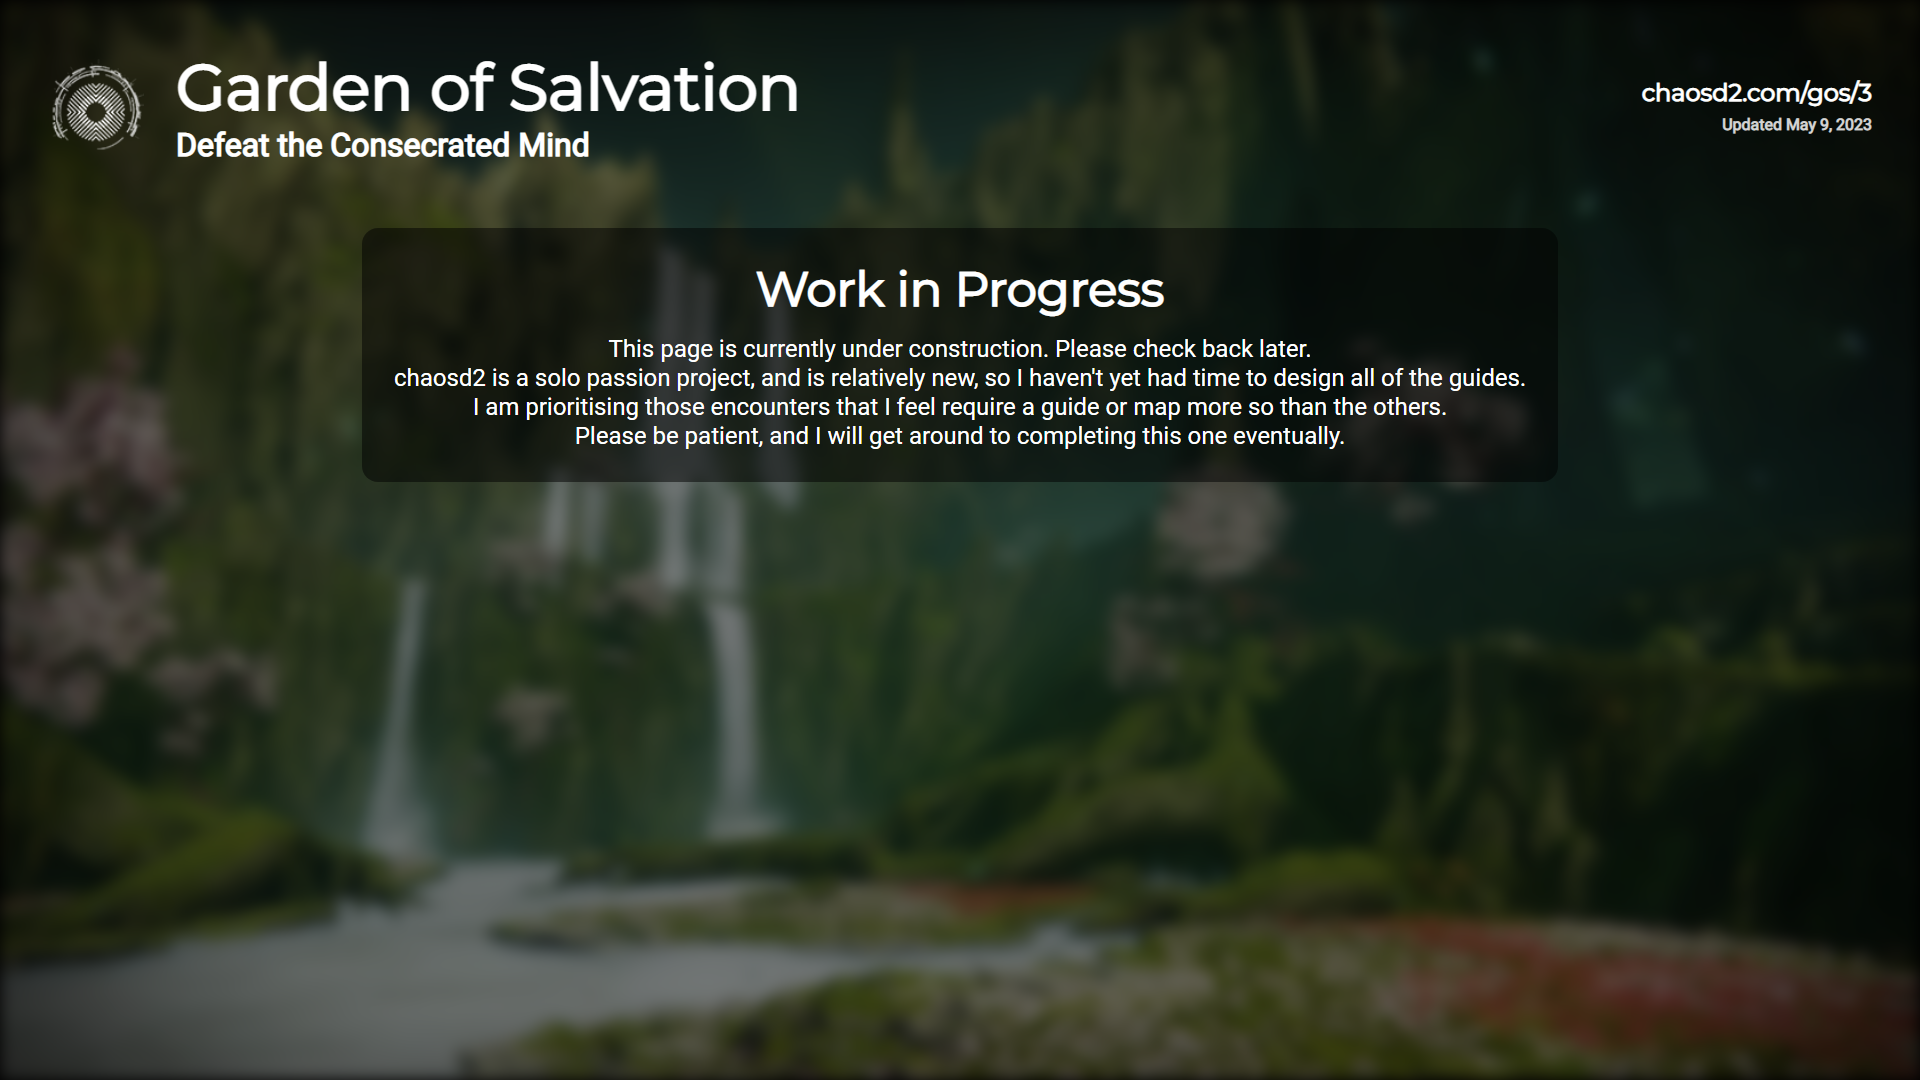
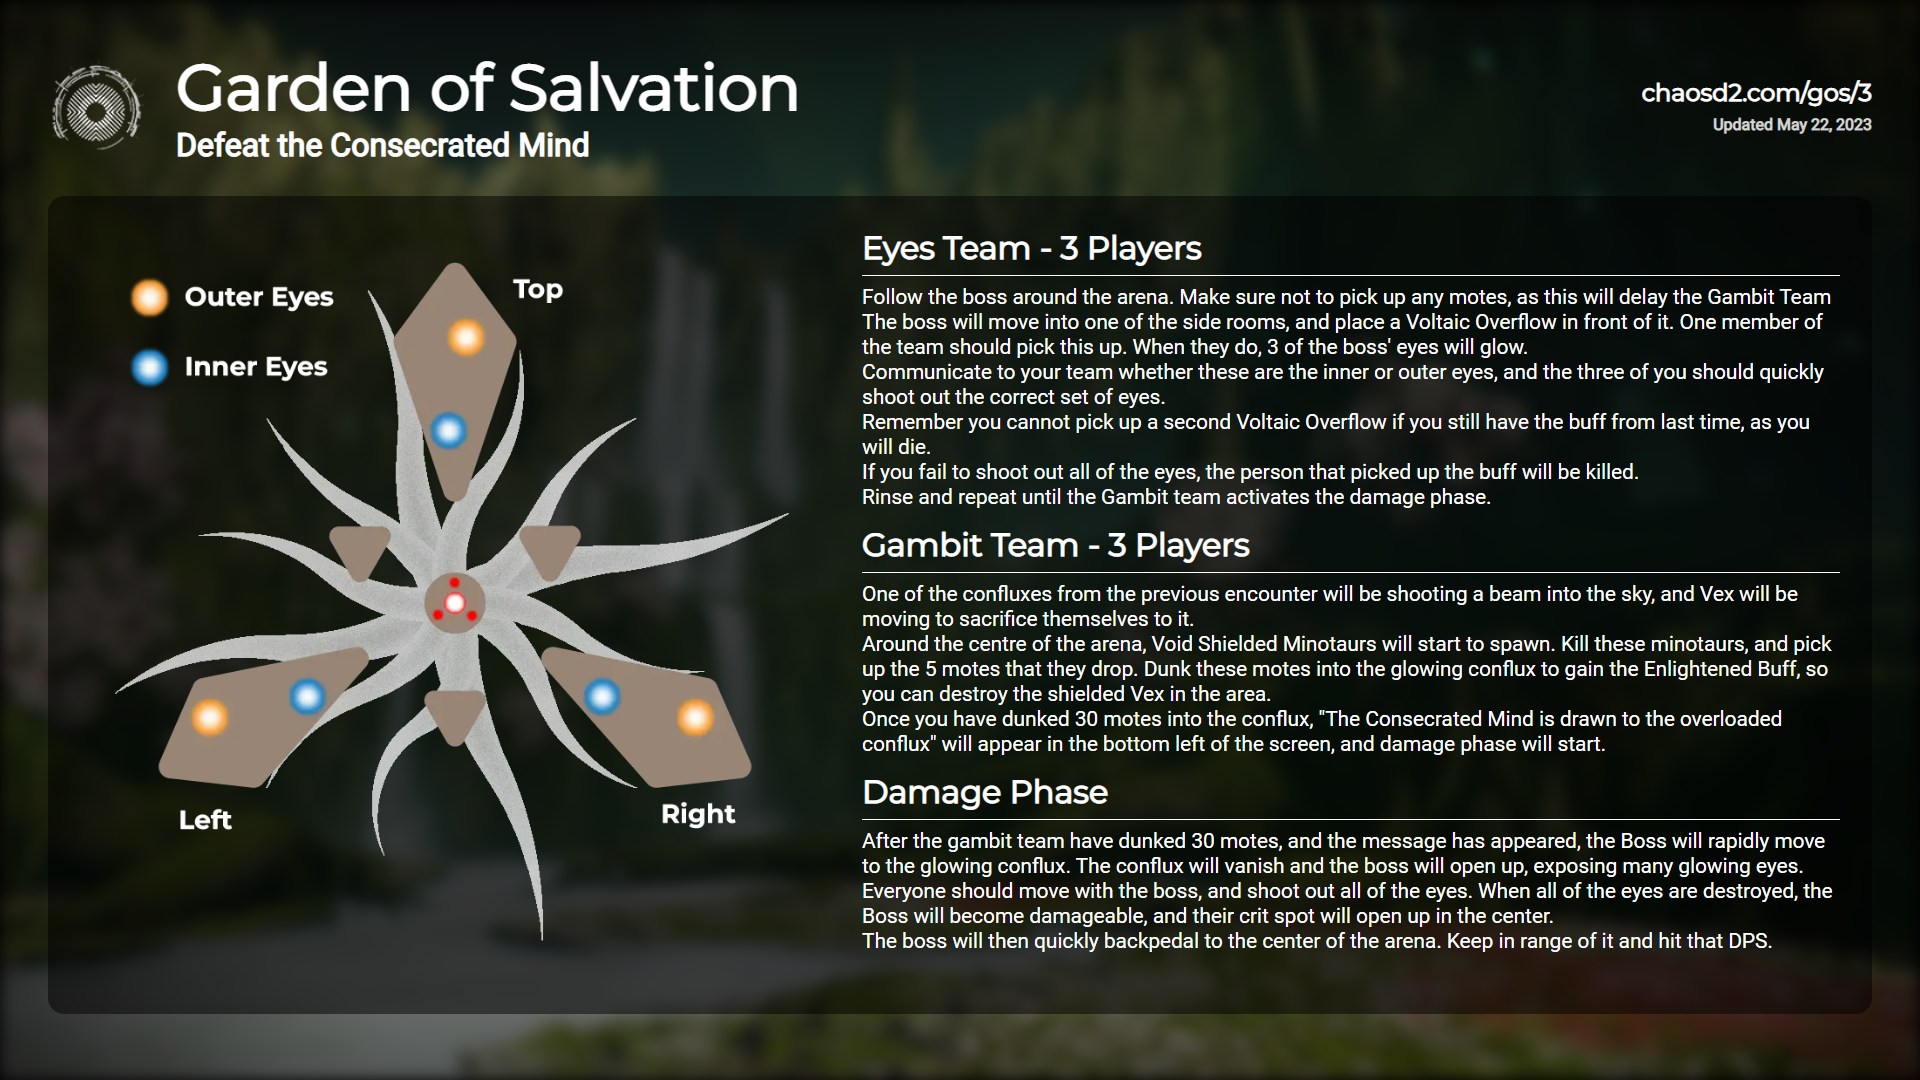
Added /gos/3

diff --git a/src/app/image_sources/raids/garden_of_salvation/3/page.js b/src/app/image_sources/raids/garden_of_salvation/3/page.js
@@ -3,9 +3,8 @@ import ImageHeader from "@image_components/ImageHeader";
 import Image from "next/image";
 import Background from "@backgrounds/garden.jpg";
 import {BungieIcons} from "@components/BungieIcons";
-import ImageUnderConstruction from "@image_components/ImageUnderConstruction";
-
-/* TODO: This is a placeholder page. */
+import custom from "./custom.module.css";
+import image from "./image.png";
 
 export const metadata = {
     other: {
@@ -20,8 +19,35 @@ export default function GardenEncounter3() {
             <Image src={Background} alt={""} className={styles.background}/>
             <div className={styles.wrapper}>
                 <ImageHeader title={"Garden of Salvation"} subtitle={"Defeat the Consecrated Mind"} icon={BungieIcons.raids.garden_of_salvation} href={"chaosd2.com/gos/3"}/>
-                <div className={styles.content}>
-                    <ImageUnderConstruction/>
+                <div className={custom.content}>
+                    <div className={custom.image_wrapper}>
+                        <Image src={image} alt={""} className={custom.image}/>
+                    </div>
+                    <div className={custom.text_wrapper}>
+                        <div className={custom.text}>
+                            <div>
+                                <h2>Eyes Team - 3 Players</h2>
+                                <p>Follow the boss around the arena. Make sure not to pick up any motes, as this will delay the Gambit Team</p>
+                                <p>The boss will move into one of the side rooms, and place a Voltaic Overflow in front of it. One member of the team should pick this up. When they do, 3 of the boss' eyes will glow.</p>
+                                <p>Communicate to your team whether these are the inner or outer eyes, and the three of you should quickly shoot out the correct set of eyes.</p>
+                                <p>Remember you cannot pick up a second Voltaic Overflow if you still have the buff from last time, as you will die.</p>
+                                <p>If you fail to shoot out all of the eyes, the person that picked up the buff will be killed.</p>
+                                <p>Rinse and repeat until the Gambit team activates the damage phase.</p>
+                            </div>
+                            <div>
+                                <h2>Gambit Team - 3 Players</h2>
+                                <p>One of the confluxes from the previous encounter will be shooting a beam into the sky, and Vex will be moving to sacrifice themselves to it.</p>
+                                <p>Around the centre of the arena, Void Shielded Minotaurs will start to spawn. Kill these minotaurs, and pick up the 5 motes that they drop. Dunk these motes into the glowing conflux to gain the Enlightened Buff, so you can destroy the shielded Vex in the area.</p>
+                                <p>Once you have dunked 30 motes into the conflux, "The Consecrated Mind is drawn to the overloaded conflux" will appear in the bottom left of the screen, and damage phase will start.</p>
+                            </div>
+                            <div>
+                                <h2>Damage Phase</h2>
+                                <p>After the gambit team have dunked 30 motes, and the message has appeared, the Boss will rapidly move to the glowing conflux. The conflux will vanish and the boss will open up, exposing many glowing eyes.</p>
+                                <p>Everyone should move with the boss, and shoot out all of the eyes. When all of the eyes are destroyed, the Boss will become damageable, and their crit spot will open up in the center.</p>
+                                <p>The boss will then quickly backpedal to the center of the arena. Keep in range of it and hit that DPS.</p>
+                            </div>
+                        </div>
+                    </div>
                 </div>
             </div>
         </body>

diff --git a/src/app/image_sources/raids/garden_of_salvation/3/custom.module.css b/src/app/image_sources/raids/garden_of_salvation/3/custom.module.css
@@ -1,0 +1,34 @@
+.content {
+    width: 100%;
+    height: 100%;
+    background: rgba(0, 0, 0, 0.5);
+    border-radius: 1rem;
+    padding: 1rem;
+    display: flex;
+}
+
+.content > * {
+    padding: 1rem;
+}
+
+.image {
+    width: 750px;
+    height: 750px;
+}
+
+.text {
+    display: flex;
+    flex-direction: column;
+    gap: 1rem;
+}
+
+.text h2 {
+    font-size: 2rem;
+    padding-bottom: 0.5rem;
+    margin-bottom: 0.5rem;
+    border-bottom: 1px solid white;
+}
+
+.text p {
+    font-size: 1.3rem;
+}
